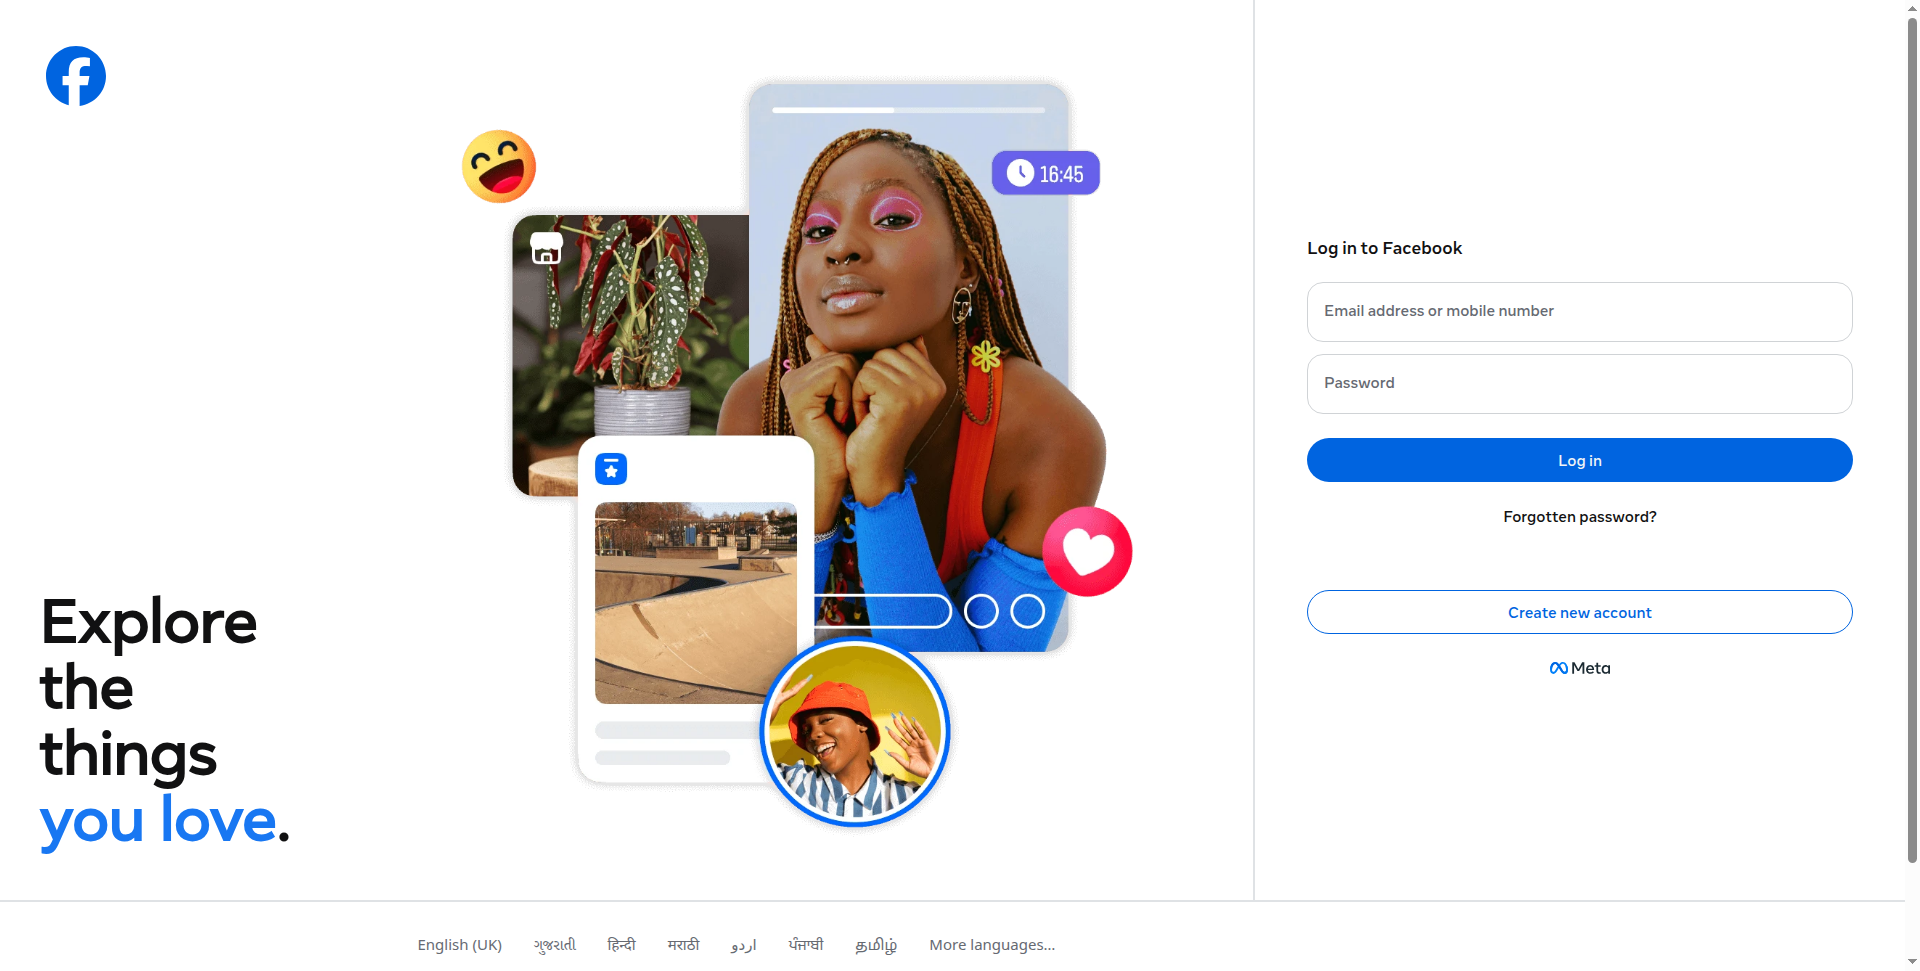
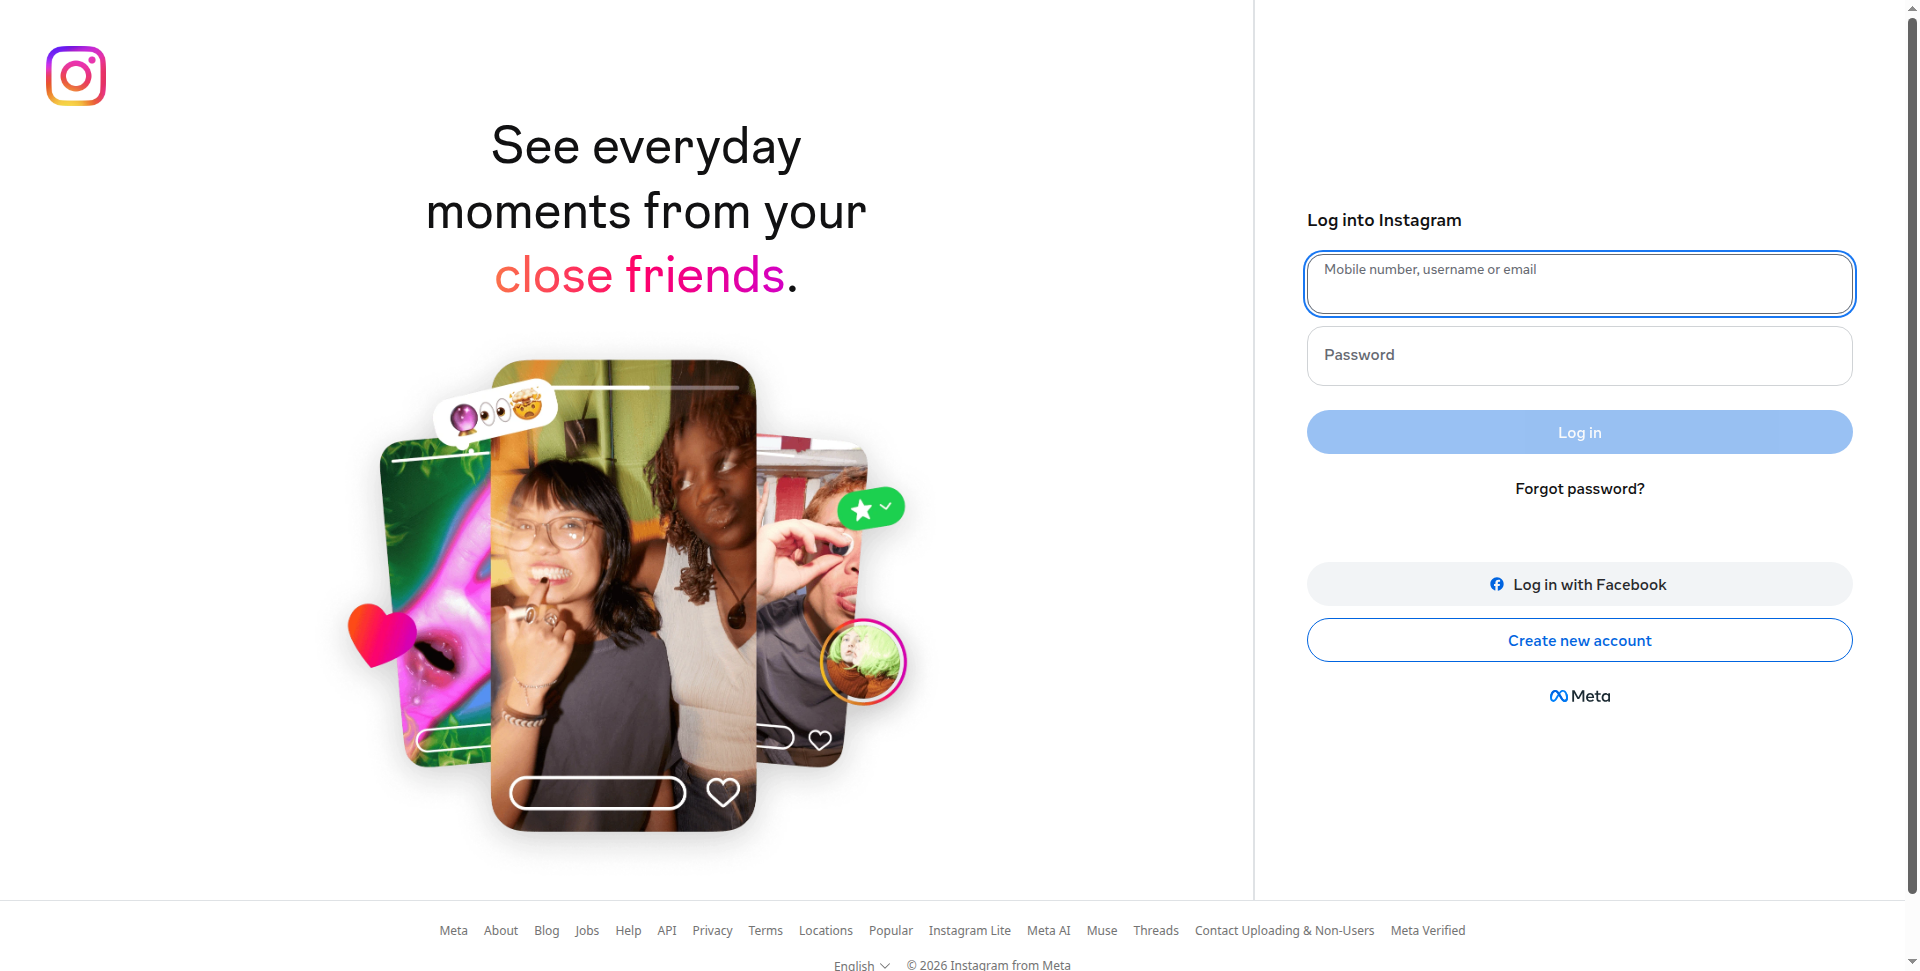
a

diff --git a/compile-java-executable/181/testcases/login.java b/compile-java-executable/181/testcases/login.java
@@ -1,3 +1,11 @@
+import com.mongodb.*;
+import org.bson.BsonDocument;
+import org.bson.BsonInt64;
+import org.bson.Document;
+import org.bson.conversions.Bson;
+import com.mongodb.client.MongoClient;
+import com.mongodb.client.MongoClients;
+import com.mongodb.client.MongoDatabase;
 import io.testgrid.listeners.TestListener;
 import io.testgrid.listeners.RetryFailedTestCases;
 import io.testgrid.tg;
@@ -25,7 +33,11 @@ public class login {
 	@Test(retryAnalyzer = RetryFailedTestCases.class)
 	public void login() {
 		tg.openBrowser();
-		tg.wait("ele_test", ComparisonType.IS_VISIBLE);
+				tg.wait("ele_test", ComparisonType.IS_VISIBLE);
+				tg.wait("ele_closefrien3261", ComparisonType.IS_VISIBLE, 3);
+				tg.wait("ele_trueorigin5172", ComparisonType.IS_VISIBLE, 2);
+				tg.wait("ele_seeeveryda136", ComparisonType.IS_VISIBLE);
+				tg.wait("ele_dhruv123", ComparisonType.IS_VISIBLE, 2);
 		tg.close();
 	}
 }
